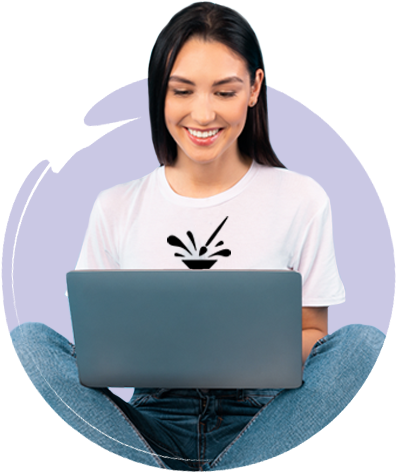
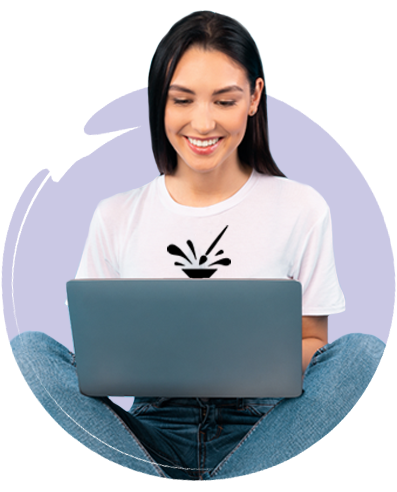
revision 1

diff --git a/index.html b/index.html
@@ -53,7 +53,7 @@
             <p>We see you out there, loyal sip and painters, and now it’s time you got something back.</p>
             <p class="bold">Cue the PaintNite.com Rewards Program.</p>
             <div class="btn--m">
-              <a href="#" class="primary__btn">Check Your Points</a>
+              <a href="/become-a-loyalty-customer/account-setup/" class="primary__btn">Check Your Points</a>
             </div>
           </div>
         </section>
@@ -66,8 +66,7 @@
             <div class="works__cards">
               <!-- Card -->
               <div class="works__card">
-                <img srcset="./assets/images/Laptop@2x.png 2x" src="./assets/images/laptop.png" class="works__card--img" />
-                <!-- <img src="./assets/images/laptop.png" class="works__card--img" alt="Laptop" /> -->
+                <img srcset="./assets/images/laptop.png 1x, ./assets/images/Laptop@2x.png 2x" src="./assets/images/laptop.png" class="works__card--img" alt="Laptop" />
                 <div class="works__card--content">
                   <h3 class="works__card--title">MAKE A PURCHASE</h3>
                   <p class="works__card--subtitle">
@@ -77,7 +76,7 @@
                 </div>
 
                 <div class="btn--m">
-                  <a href="#" class="primary__btn bg--grey">Check Your Points</a>
+                  <a href="/become-a-loyalty-customer/account-setup/" class="primary__btn bg--grey">Check Your Points</a>
                 </div>
               </div>
 
@@ -85,8 +84,7 @@
 
               <!-- Card -->
               <div class="works__card">
-                <img srcset="./assets/images/iPhone@2x.png 2x" src="./assets/images/iPhone.png" class="works__card--img" />
-                <!-- <img src="./assets/images/iPhone.png" class="works__card--img" alt="iPhone" /> -->
+                <img srcset="./assets/images/iPhone.png 1x, ./assets/images/iPhone@2x.png 2x" src="./assets/images/iPhone.png" class="works__card--img" alt="iPhone" />
                 <div class="works__card--content">
                   <h3 class="works__card--title">INVITE FRIENDS</h3>
                   <p class="works__card--subtitle">
@@ -96,7 +94,7 @@
                 </div>
 
                 <div class="btn--m">
-                  <a href="#" class="primary__btn bg--pink">Check Your Points</a>
+                  <a href="/become-a-loyalty-customer/account-setup/" class="primary__btn bg--pink">Check Your Points</a>
                 </div>
               </div>
 
@@ -104,8 +102,7 @@
 
               <!-- Card -->
               <div class="works__card">
-                <img srcset="./assets/images/Brushes@2x.png 2x" src="./assets/images/Brushes.png" class="works__card--img" />
-                <!-- <img src="./assets/images/brushes.png" class="works__card--img" alt="Brushes" /> -->
+                <img srcset="./assets/images/Brushes.png 1x, ./assets/images/Brushes@2x.png 2x" src="./assets/images/Brushes.png" class="works__card--img" alt="Brushes" />
                 <div class="works__card--content">
                   <h3 class="works__card--title">EARN REWARDS</h3>
                   <p class="works__card--subtitle">
@@ -115,12 +112,12 @@
                 </div>
 
                 <div class="btn--m">
-                  <a href="#" class="primary__btn bg--blue">Check Your Points</a>
+                  <a href="/become-a-loyalty-customer/account-setup/" class="primary__btn bg--blue">Check Your Points</a>
                 </div>
               </div>
             </div>
             <div class="btn--d center">
-              <a href="#" class="primary__btn bg--blue">Check Your Points</a>
+              <a href="/become-a-loyalty-customer/account-setup/" class="primary__btn bg--blue">Check Your Points</a>
             </div>
           </div>
         </section>
@@ -170,7 +167,7 @@
               </div>
             </div>
             <div class="btn--d center">
-              <a href="#" class="primary__btn bg--blue">Check Your Points</a>
+              <a href="/become-a-loyalty-customer/account-setup/" class="primary__btn bg--blue">Check Your Points</a>
             </div>
           </div>
         </section>
@@ -180,7 +177,7 @@
             <h2 class="section__title">it’s simple.</h2>
             <p class="section__subtitle">Next time you’re planning a night out, don’t forget to share your link. The fact you’re gaining something can be our little secret.</p>
             <div class="center">
-              <a href="#" class="primary__btn text-blue bg--white">Check Your Points</a>
+              <a href="/become-a-loyalty-customer/account-setup/" class="primary__btn text-blue bg--white">Check Your Points</a>
             </div>
           </div>
         </section>
